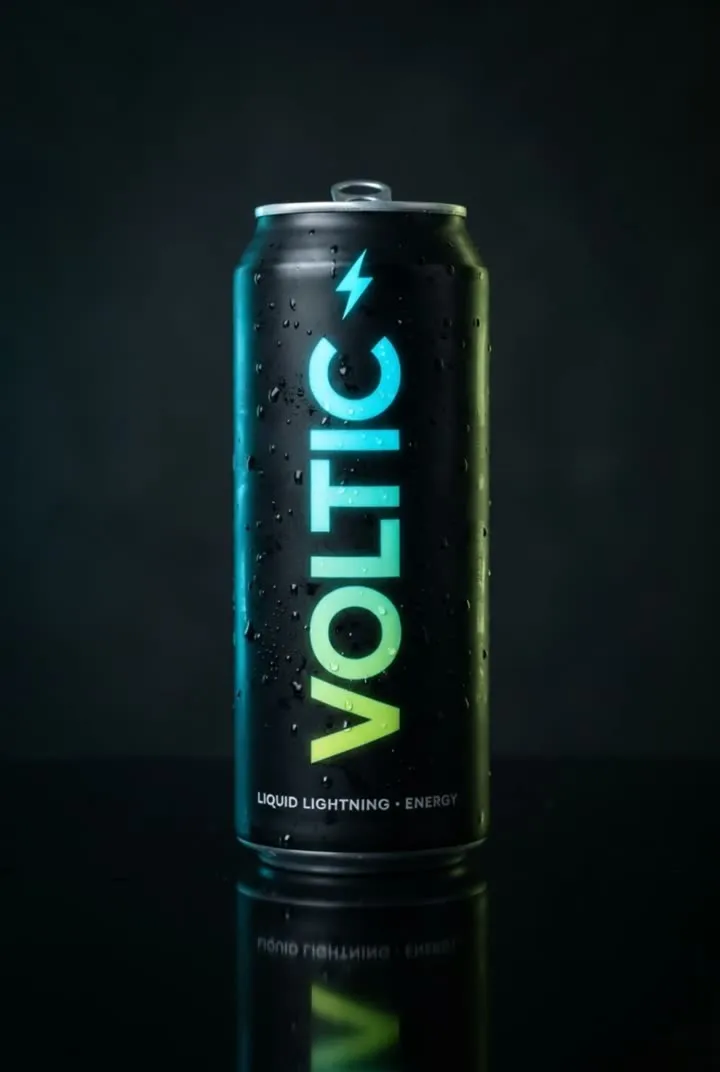
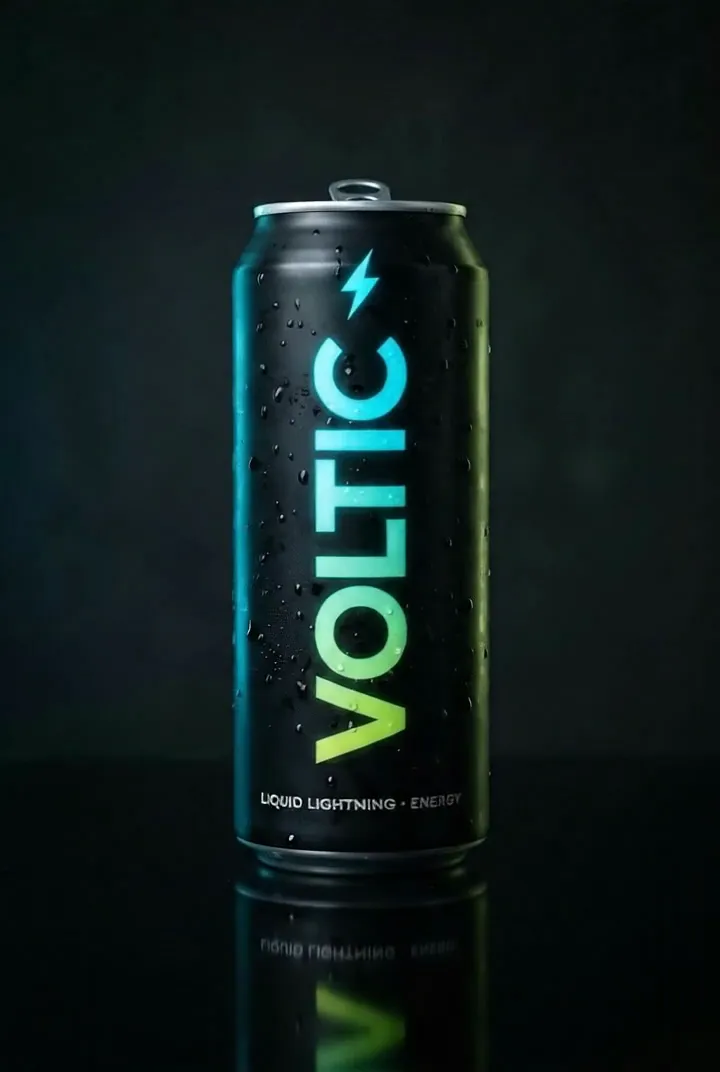
Photoreal 180° turn from anchor-pinned Veo footage
The scrub is now real generated footage pinned to real photos at both
ends: Veo 3.1 first/last-frame mode, started from the English back
anchor (the only start that yields a clean turntable — front-started
clips tumble), played in reverse so it reads front -> back. 60 frames
at 3°/frame, ending dead on the legible English nutrition panel,
dwelling there, then dissolving to the facts card.

Path not taken, documented: kling-3.0 first/last 500s on every input
shape today; Veo front-started clips tumble regardless of prompt; the
opposite-flank clip (C) invented a second gibberish panel, so the
full-360 splice was abandoned for the one flawless clip. Spend 545 of
736 total (485 of the 529 approved ceiling for this rebuild).

diff --git a/src/main.js b/src/main.js
@@ -89,14 +89,14 @@ const fillEl = document.querySelector('.spin-track-fill');
 const captions = [...document.querySelectorAll('.spin-caption')];
 let spinTop = 0, spinRange = 1, spinLoaded = false, lastFrame = -1, lastStep = -1;
 
-// The scrub has two acts: the can turns 0→150° (stopping before the video's
-// unusable back panel would face the camera), then fades down and the
-// nutrition card takes the stage. All thresholds are section progress 0–1.
-const SPIN_END = 0.55;   // rotation completes here
-const FADE_START = 0.5;  // can starts dissolving while still turning
-const FADE_END = 0.64;   // canvas fully faded here
-const CARD_IN = 0.62, CARD_FULL = 0.78;
-const ARC_DEG = 135;
+// Two acts: a 180° turn — one flawless Veo clip played in reverse, pinned to
+// the real front photo at 0° and the real English back panel at 180° — then
+// the can holds its back to the camera while the nutrition card lands.
+const SPIN_END = 0.55;   // rotation completes here, resting on the back anchor
+const FADE_START = 0.66; // …dwells on the readable back panel, then dissolves
+const FADE_END = 0.76;   // canvas fully faded here
+const CARD_IN = 0.74, CARD_FULL = 0.86;
+const ARC_DEG = 180;
 const cardEl = document.querySelector('.spin-card');
 
 function measureSpin() {
@@ -187,7 +187,7 @@ function updateSpin() {
     }
   }
 
-  const step = p < 0.28 ? 0 : p < SPIN_END ? 1 : -1;
+  const step = p < 0.31 ? 0 : p < SPIN_END ? 1 : -1;
   if (step !== lastStep) {
     lastStep = step;
     captions.forEach((c, i) => c.classList.toggle('is-live', i === step));

diff --git a/index.html b/index.html
@@ -80,10 +80,10 @@
   <section class="spin" id="spin">
     <div class="spin-stage">
       <div class="spin-bg" aria-hidden="true"></div>
-      <div class="spin-ghost" aria-hidden="true">FLIP</div>
+      <div class="spin-ghost" aria-hidden="true">180°</div>
 
-      <canvas class="spin-canvas" role="img" data-frames="24" width="720" height="1080"
-        aria-label="VOLTIC can turning as you scroll, then flipping over to its nutrition facts"></canvas>
+      <canvas class="spin-canvas" role="img" data-frames="60" width="720" height="1080"
+        aria-label="VOLTIC can turning to show its nutrition facts panel as you scroll"></canvas>
 
       <div class="spin-hud" aria-hidden="true">
         <div class="spin-deg"><span class="spin-deg-num">000</span>°</div>
